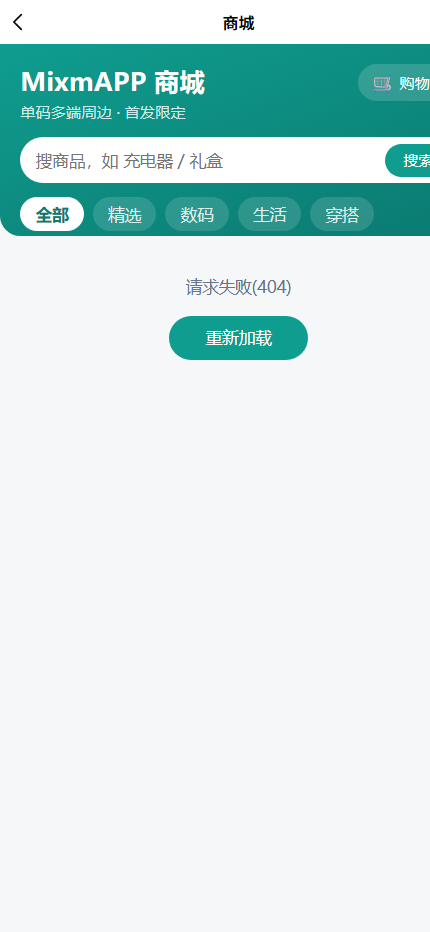
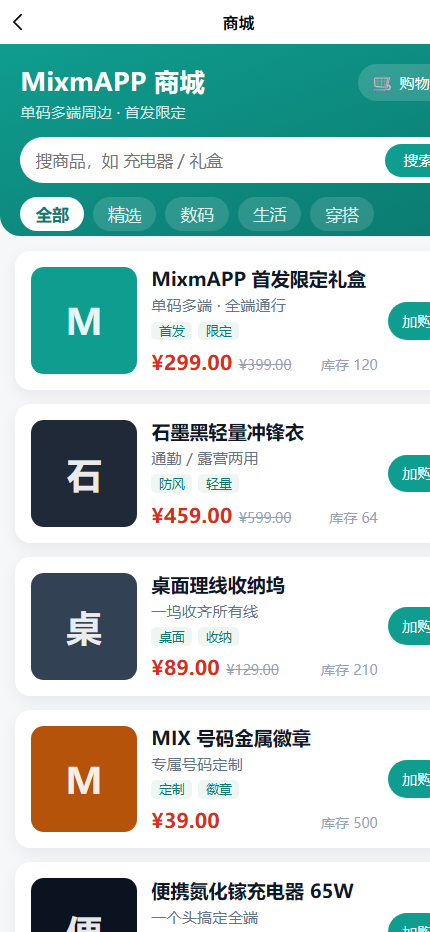
docs(live): 记录线上全链路 E2E 取证（注册自动分配ID、登录、me、409、refresh 轮换）与商城真数据渲染

diff --git a/docs/07-free-platform-verification.md b/docs/07-free-platform-verification.md
@@ -179,3 +179,32 @@ H5 是 history 模式（`manifest.json` 的 `h5.router.mode=history`），而 Pa
 要 200 语义，得换到支持 SPA rewrite 的宿主（Cloudflare Pages 的 `_redirects`、CloudBase 的路由规则、nginx 的 `try_files`）。
 
 商城页那条「请求失败(404)」就是 API 缺位的直接证据，和本文第 8 节的结论一致：库有了，服务还没上。
+## 10. 线上全链路 E2E 取证（前端 → API → PostgreSQL）
+
+平台接线已完成，链路是：GitHub Pages（单文件 H5）→ `https://cloud.mixm.top/mixmapp/api/v1` → 服务器上的 Fastify API → PostgreSQL。
+部署方式：`deploy.yml` 的 `api` job 走 SSH 原子发布（secrets `DEPLOY_HOST`/`DEPLOY_USER`/`DEPLOY_SSH_KEY_B64`，
+变量 `HEALTH_BASE_URL=https://cloud.mixm.top/mixmapp`、`MIXMAPP_API_BASE=https://cloud.mixm.top/mixmapp/api/v1`）。
+
+用真实 HTTP 请求打线上，结果如下（2026-11-12）：
+
+| 请求 | 结果 |
+|---|---|
+| `GET /healthz` | 200，`{"status":"ok","version":"0.0.0-preview","checks":{"db":"postgres"}}` |
+| `GET /api/v1/meta` | 200，`appName=MixmAPP`，ID 策略 `snowflake`，第三方能力矩阵完整 |
+| `GET /api/v1/mall/products` | 200，6 条商品真实从库里读回（2.1 KB） |
+| `POST /api/v1/auth/register/username` | 201，**自动分配** `id=114341178375143424`、`accountNo=MixmAPP-035H-RP8M-4000-0` |
+| `POST /api/v1/auth/login/password` | 200，返回同一 `accountNo`，`isNewUser=false` |
+| `GET /api/v1/me`（Bearer） | 200，`accountNo/nickname/username` 与注册时一致 |
+| 同用户名再注册 | 409（唯一约束生效，证明是真落库不是内存态） |
+| `POST /api/v1/auth/refresh` | 200，换发新 access/refresh |
+| 旧 refreshToken 重放 | 401（轮换生效，旧令牌立即失效） |
+
+前端侧：商城页已从「请求失败(404)」变为真实渲染 6 件商品（价格 ¥299/¥459/¥89/¥39…），
+说明 `MIXMAPP_API_BASE` 已正确烤进 H5 并跨域可用。截图见 `docs/screenshots/live-mall.png`。
+
+留痕：本次验收在线上库创建了测试账号 `qa_probe_1112`（`accountNo=MixmAPP-035H-RP8M-4000-0`），
+用于证明注册→分配 ID→登录全链路；该账号未删除，需要时可在 `/me` 里改名或后续清理。
+
+尚未真实接入的第三方（`/api/v1/meta` 里仍是 dev/console/off）：短信 `console`、一键登录 `dev`、
+微信/QQ/GitHub/Apple OAuth `off`、微信支付/支付宝 `off`、地图/存储/推送/AI `dev`。
+这些改成 `on` 需要各平台商户号与密钥，属于外部凭据缺口，不是代码缺口。
